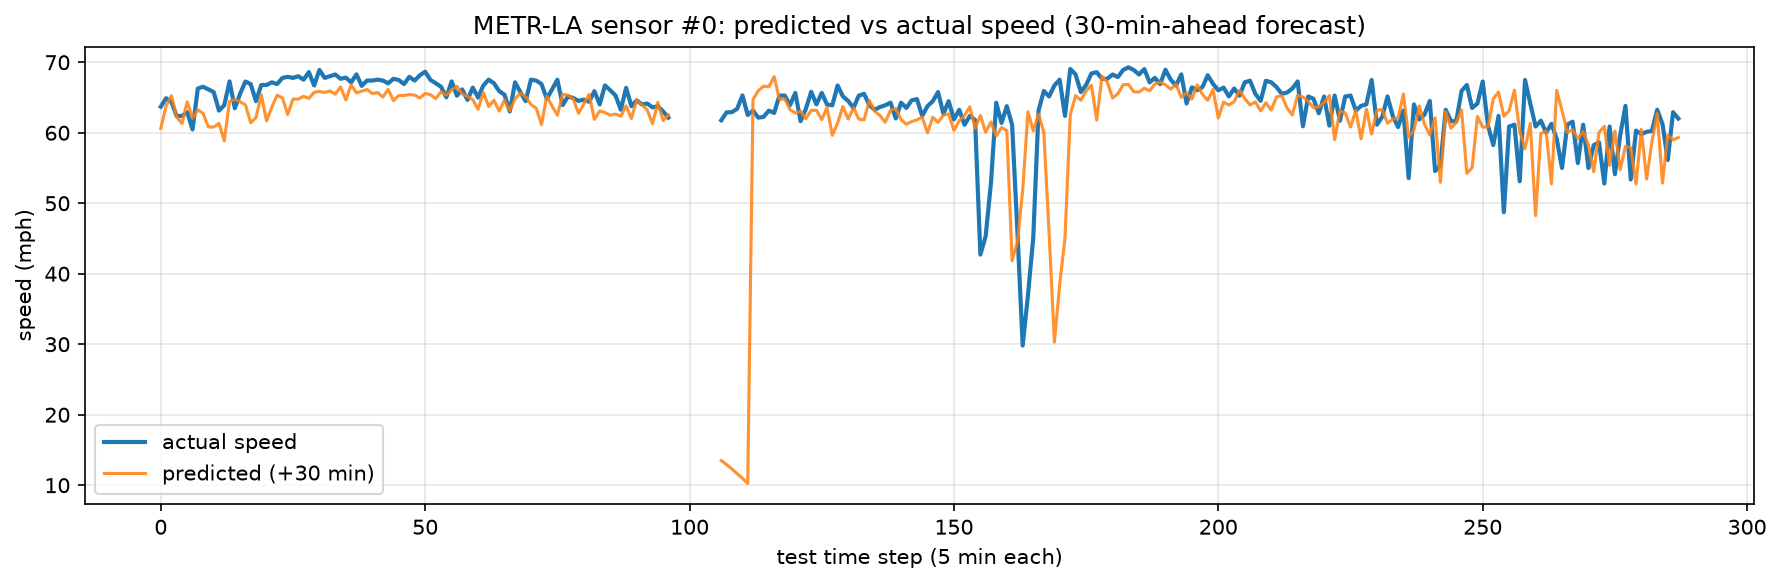
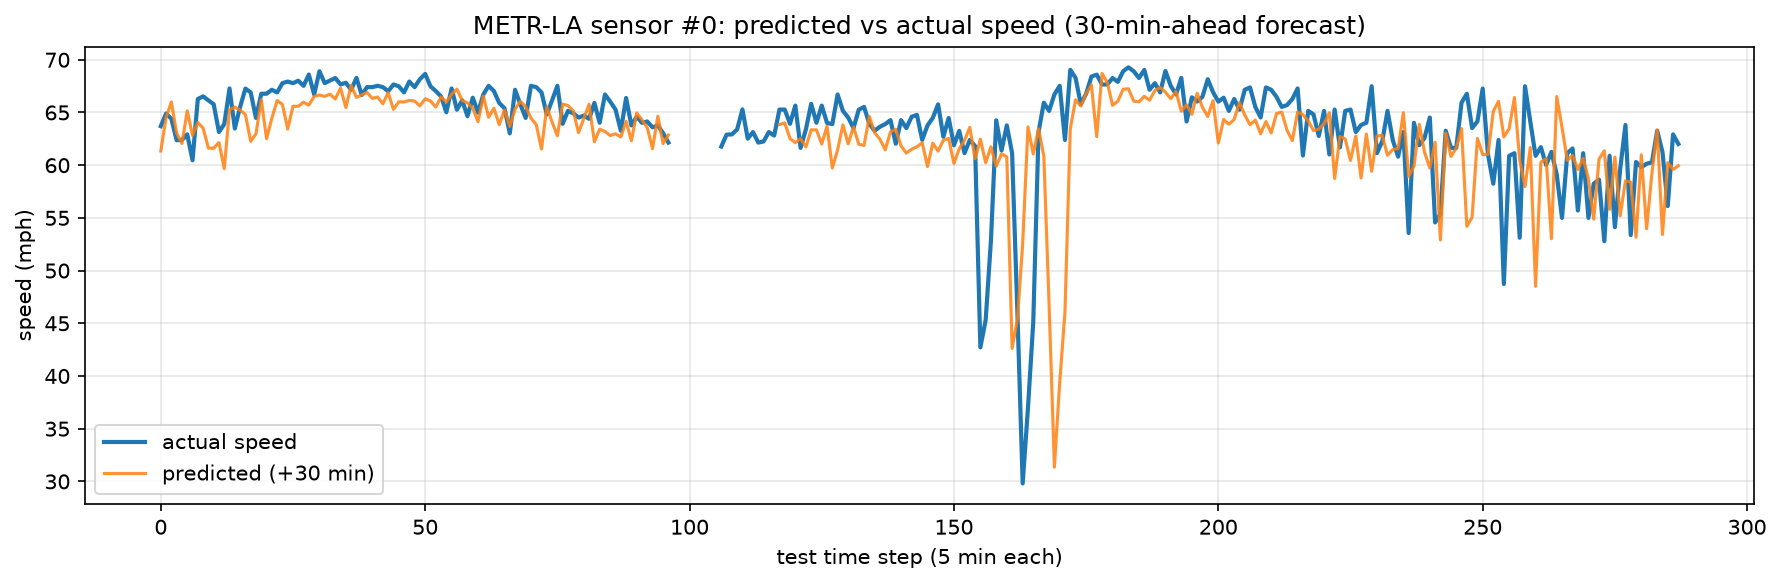
Clean prediction plot and refresh results to final GPU run
Mask the forecast across the whole sensor-outage window (not just the dropout
points) so no spurious dip is drawn. Update README to the final 30-epoch run on
the RTX 5070 Ti: MSE 0.3741, +8.9% over the persistence baseline (PASS).

diff --git a/train.py b/train.py
@@ -412,8 +412,15 @@ def plot_predictions(preds, trues, scaler, sensor=0, horizon_step=5,
     pred = (preds[:max_points, sensor, horizon_step].numpy() * std + mean).astype(float)
     true = (trues[:max_points, sensor, horizon_step].numpy() * std + mean).astype(float)
     outage = true < 5.0            # sensor dropout (stored as ~0 mph), not real traffic
+    # An outage also poisons the model's INPUT window for the next NUM_TIMESTEPS_IN
+    # steps, so it briefly forecasts garbage right after the gap. Hide the actual
+    # only at the real dropout, but blank the PREDICTION across that whole
+    # contaminated window so no fake dip is drawn.
+    pred_bad = outage.copy()
+    for i in np.flatnonzero(outage):
+        pred_bad[i:i + NUM_TIMESTEPS_IN] = True
     true[outage] = np.nan
-    pred[outage] = np.nan
+    pred[pred_bad] = np.nan
     minutes_ahead = (horizon_step + 1) * 5
 
     plt.figure(figsize=(12, 4))

diff --git a/README.md b/README.md
@@ -86,13 +86,13 @@ values are in **normalized units** (lower is better).
 
 ```
 Persistence baseline : MSE 0.4105 | MAE 5.45 mph | RMSE 12.98 mph
-A3T-GCN model        : MSE 0.3764 | MAE 6.37 mph | RMSE 12.43 mph
-Improvement over baseline (MSE): +8.3%   ->  [PASS]
+A3T-GCN model        : MSE 0.3741 | MAE 6.25 mph | RMSE 12.39 mph
+Improvement over baseline (MSE): +8.9%   ->  [PASS]
 ```
 
 Measured on the held-out latest 20% of time (6,850 windows); full 30-epoch run on an RTX 5070 Ti.
-The GNN beats persistence on **MSE (+8.3%)** and **RMSE (12.43 vs 12.98 mph)** — the squared-error
-metrics — while its **MAE is slightly higher (6.37 vs 5.45 mph)**. That contrast is the insightful
+The GNN beats persistence on **MSE (+8.9%)** and **RMSE (12.39 vs 12.98 mph)** — the squared-error
+metrics — while its **MAE is slightly higher (6.25 vs 5.45 mph)**. That contrast is the insightful
 part: persistence is razor-accurate *on average* (traffic is usually stable, so "next ≈ now" is spot
 on → low MAE), but it gets clobbered on sudden congestion, where large squared errors dominate. The
 GNN trades a sliver of average accuracy to better anticipate those big swings → lower RMSE/MSE — and